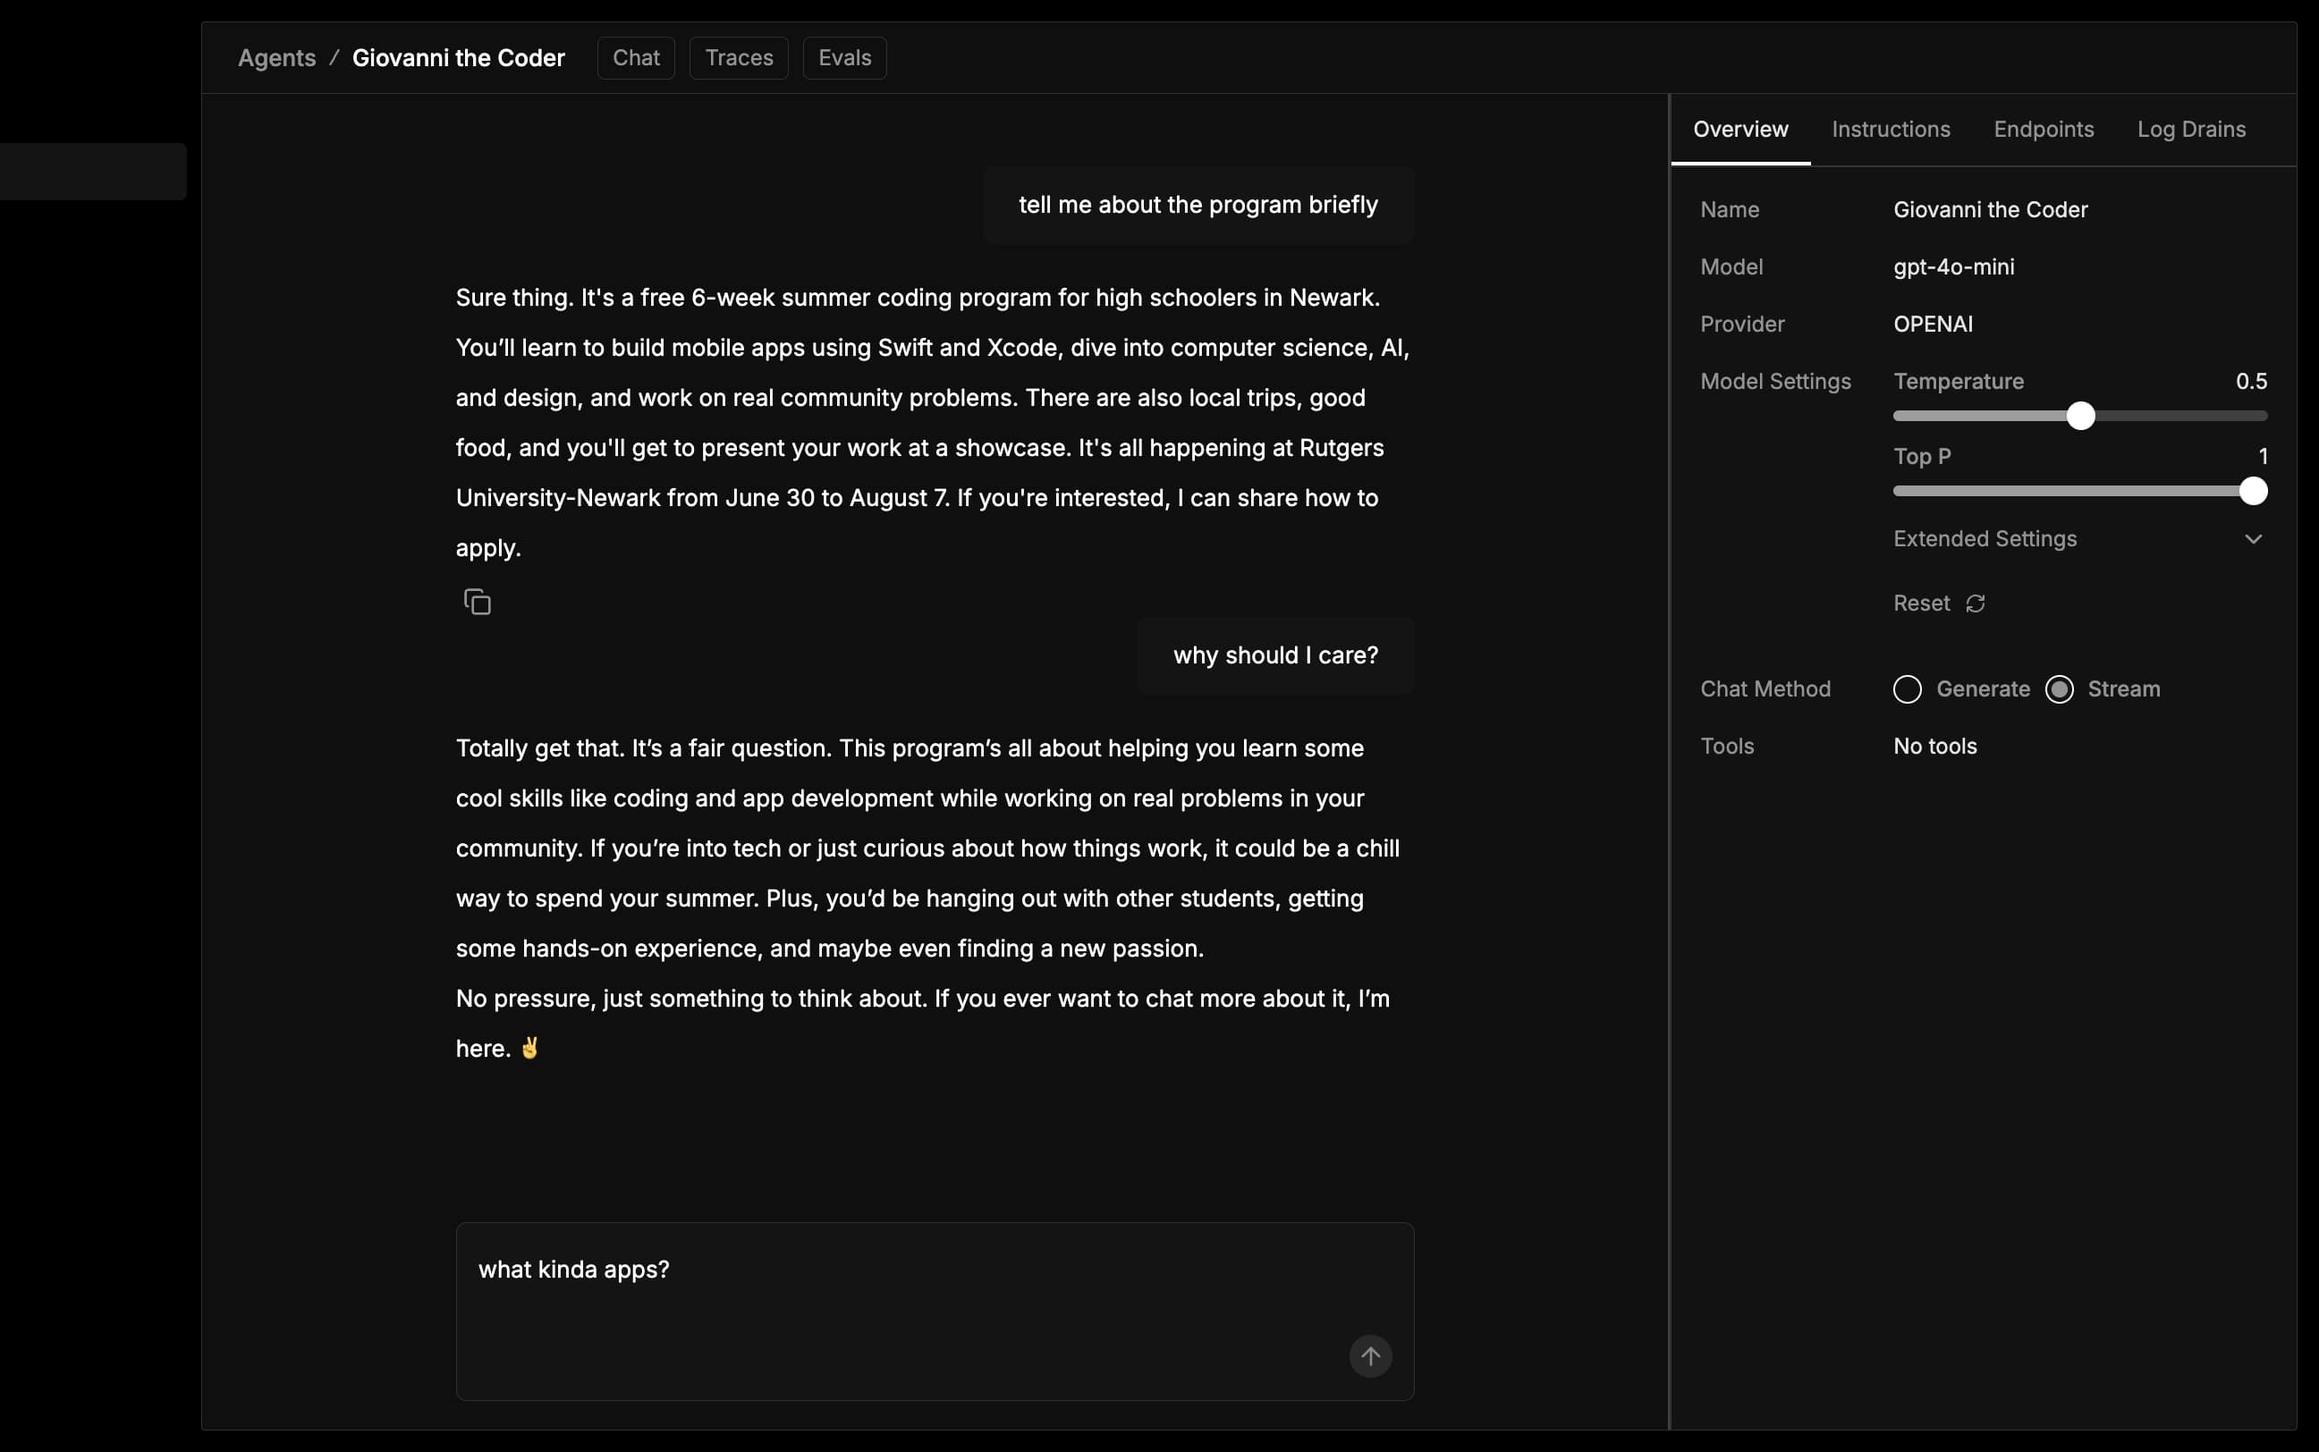
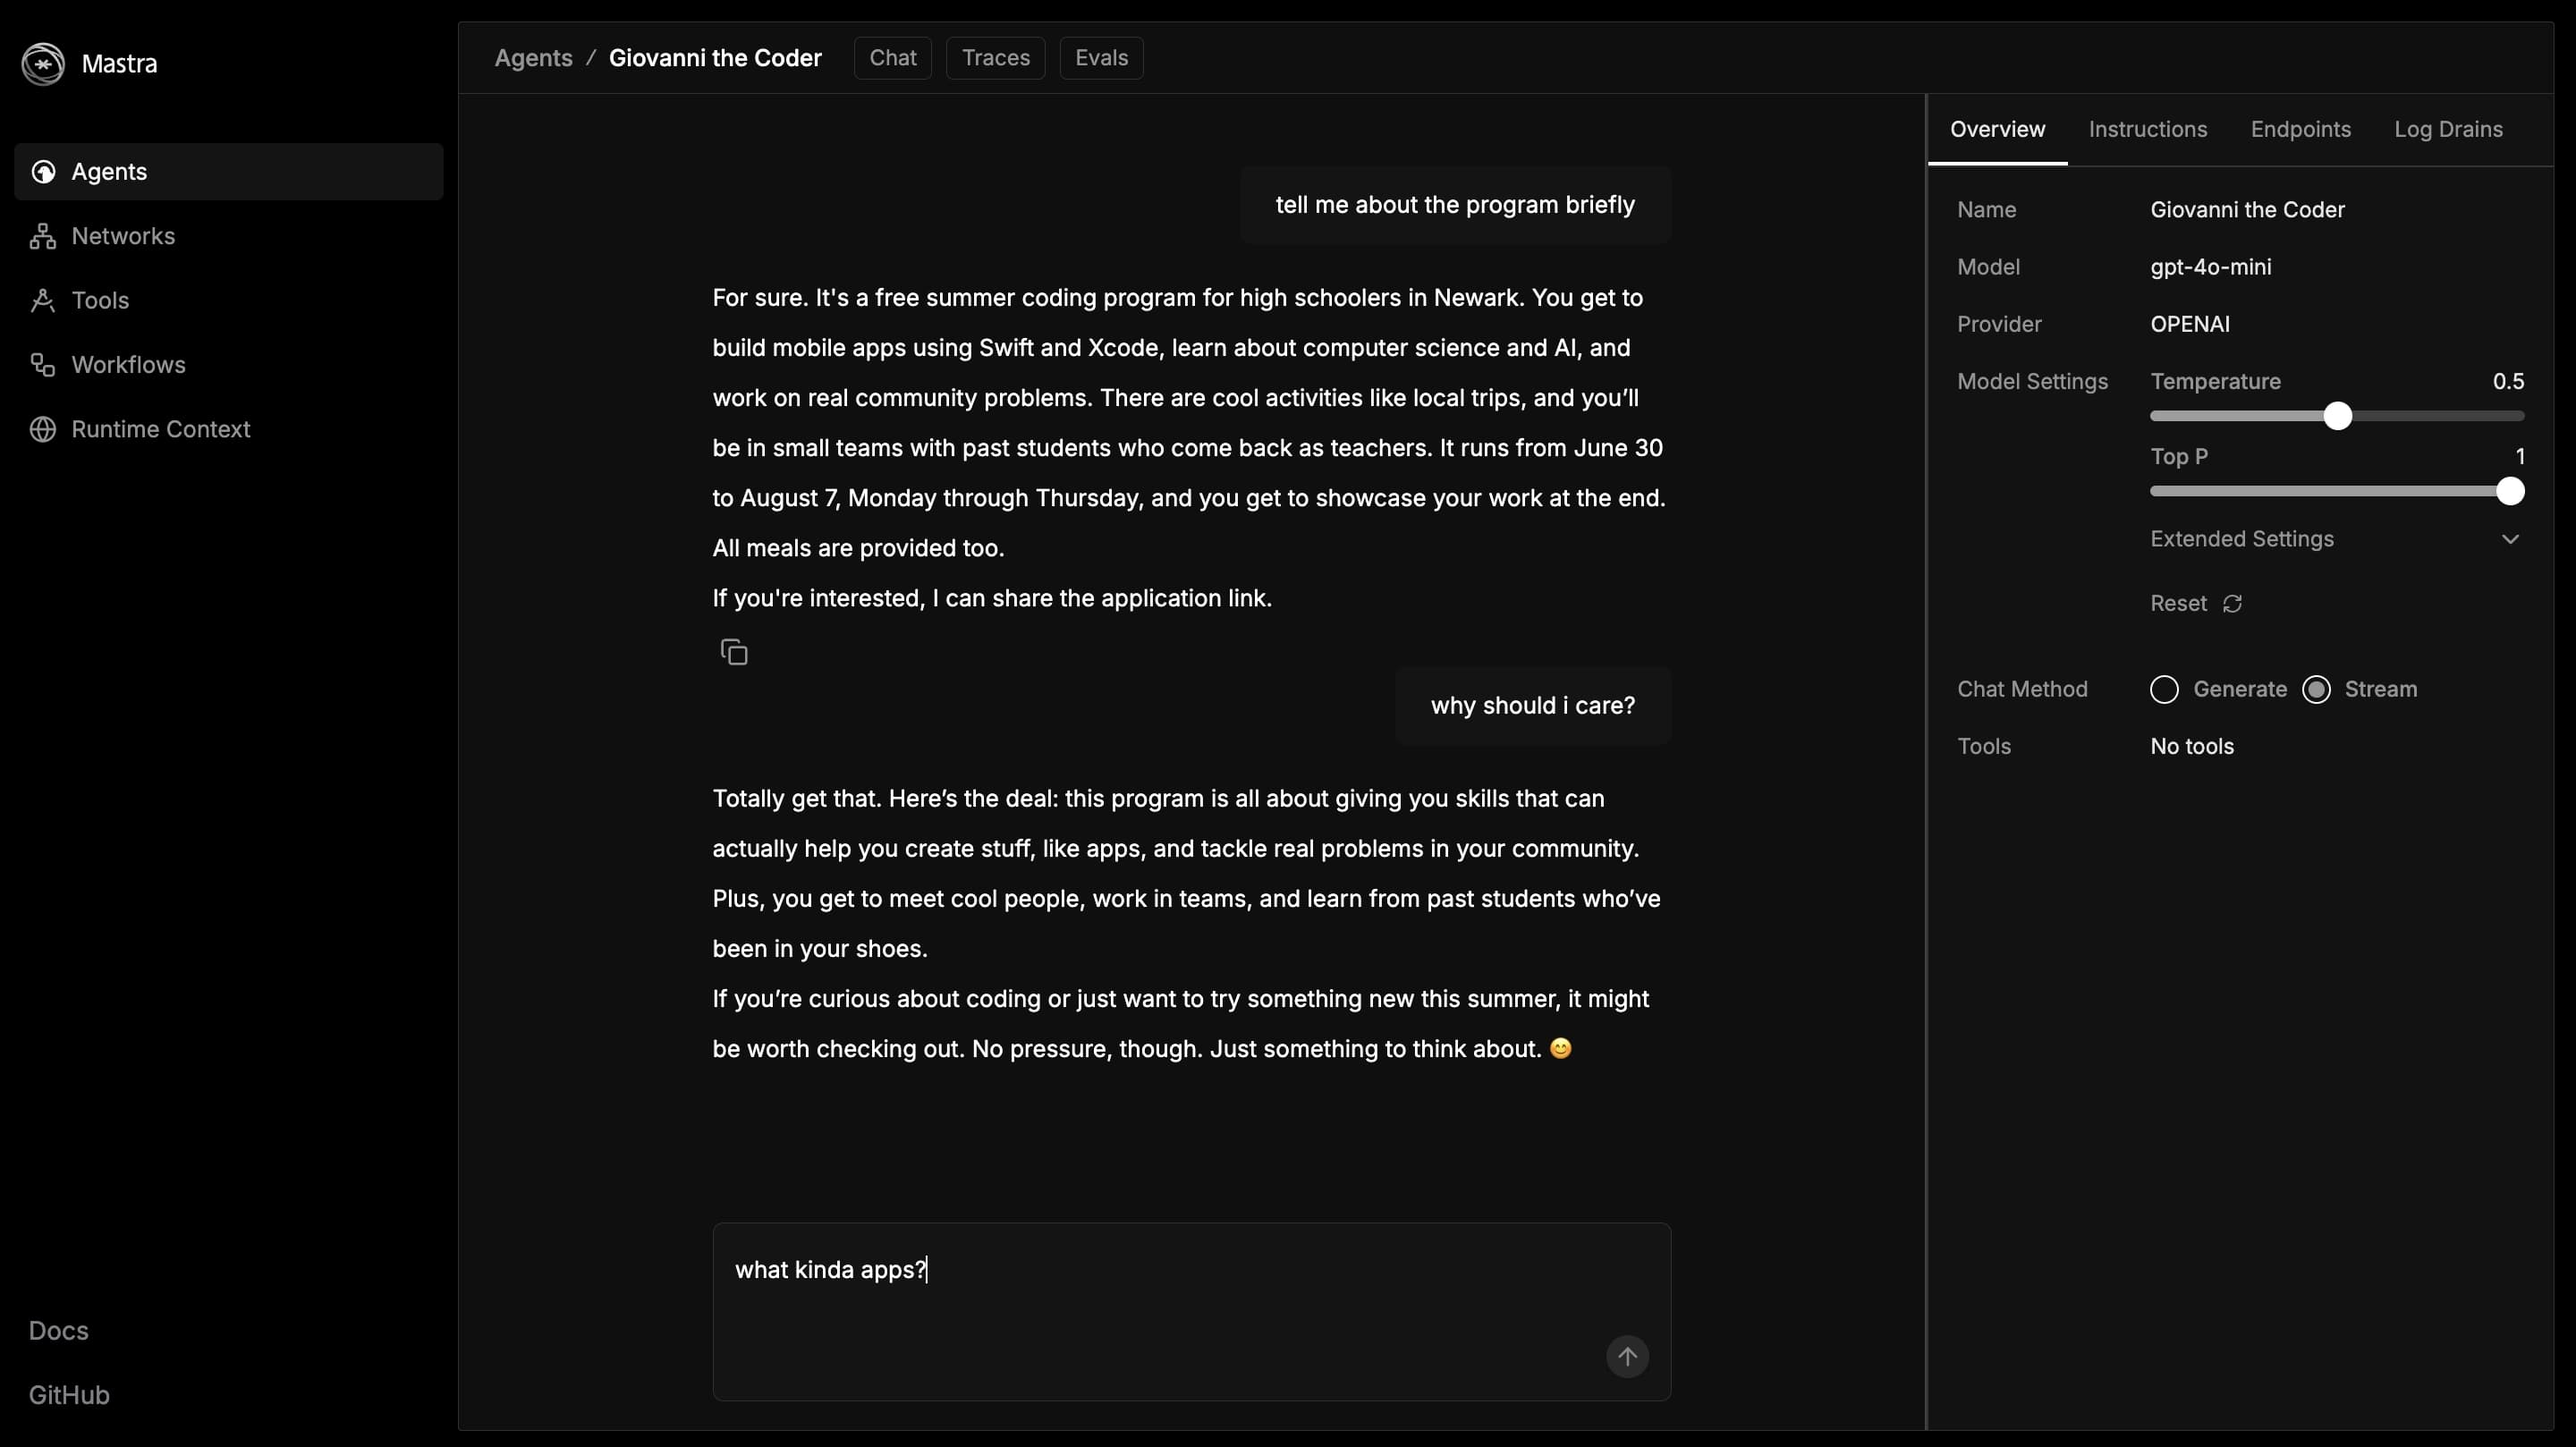
Fix gradient  in ContactCTA to be consistent with other gradients. Pick better pictures.

diff --git a/src/components/home/ContactCTA.tsx b/src/components/home/ContactCTA.tsx
@@ -6,7 +6,7 @@ import { SecondaryButton } from '@/components/ui/Button';
 export default function ContactCTA() {
   return (
     <section className="py-15 fade-in-up">
-      <div className="bg-gradient-to-r from-indigo-50 to-blue-50 rounded-2xl p-8 text-center">
+      <div className="bg-gradient-to-r from-blue-50 to-indigo-50 rounded-2xl p-8 text-center">
         <h2 className="text-2xl font-bold text-gray-800 mb-3">Ready to Collaborate?</h2>
         <p className="text-gray-600 mb-6 max-w-2xl mx-auto">
           Open to new opportunities — let's connect and discuss how I can contribute to your team.
